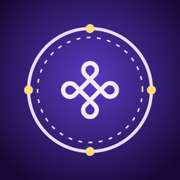
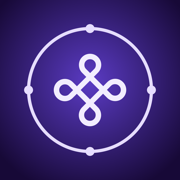
Nuova icona: cerchio con punti chiari e nodo più grande

diff --git a/index.html b/index.html
@@ -10,8 +10,8 @@
 <meta name="apple-mobile-web-app-capable" content="yes">
 <meta name="apple-mobile-web-app-status-bar-style" content="default">
 <link rel="manifest" href="manifest.webmanifest">
-<link rel="icon" href="favicon-32.png?v=1" type="image/png">
-<link rel="apple-touch-icon" href="apple-touch-icon.png?v=1">
+<link rel="icon" href="favicon-32.png?v=2" type="image/png">
+<link rel="apple-touch-icon" href="apple-touch-icon.png?v=2">
 
 <!--
   Spell sul telefono: premi Registra, parla, il pensiero va nel repository privato e il Mac lo trascrive.

diff --git a/sw.js b/sw.js
@@ -1,5 +1,5 @@
 // Spell: il guscio dell'app resta disponibile offline; i pensieri li tiene data.js (IndexedDB).
-const C = 'spell-v1';
+const C = 'spell-v2';
 const SHELL = ['./', 'index.html', 'icon-192.png', 'favicon-32.png'];
 self.addEventListener('install', e => { self.skipWaiting(); e.waitUntil(caches.open(C).then(c => c.addAll(SHELL)).catch(() => {})); });
 self.addEventListener('activate', e => e.waitUntil(caches.keys().then(k => Promise.all(k.filter(x => x !== C).map(x => caches.delete(x)))).then(() => self.clients.claim())));
